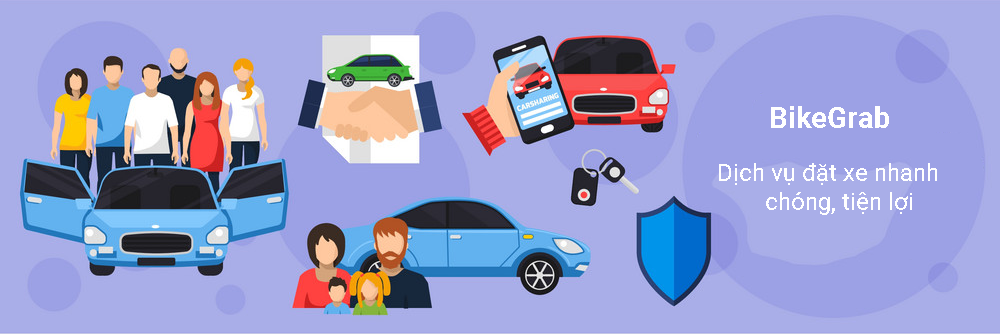
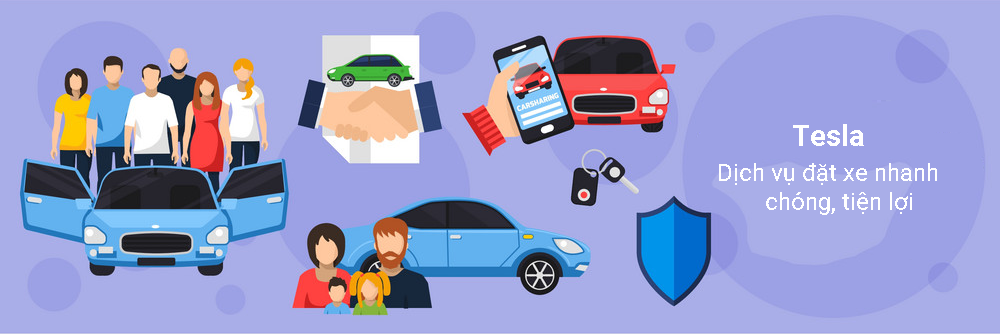
edit home page, dashboard page, fix error router

Changed region(s): [[0.744, 0.2994, 0.899, 0.4491]]

diff --git a/src/views/Receive/Request.js b/src/views/Receive/Request.js
@@ -124,10 +124,10 @@ class ReceiveRequestView extends React.Component {
         <GridItem xs={0} sm={0} md={2} />
         <GridItem xs={12} sm={12} md={8}>
           <Card>
-            <CardHeader color="primary">
+            <CardHeader color="primary" bg="#483D8B" styles="15" mar="0">
               <h2 className={classes.cardTitleWhite}>THÔNG TIN CHUYẾN ĐI</h2>
             </CardHeader>
-            <CardBody>
+            <CardBody style={{background: "#63cdd7"}}>
               <div style={{ display: 'flex', flexDirection: 'column', width: '100%', padding: 20 }}>
                 <div style={{ display: 'flex', flexDirection: 'row' }}>
                   <div style={{ display: 'flex', flexDirection: 'column' }} className={classes.textField}>
@@ -148,9 +148,9 @@ class ReceiveRequestView extends React.Component {
                     <TextField
                       error={this.state.errorCount !== 0 && this.state.phoneErrorMessage !== ''}
                       id="standard-name"
-                      label="Số điện thoại *"
+                      label="SĐT *"
                       className={classes.textField}
-                      style={{ marginLeft: 10 }}
+                      style={{ marginLeft: 10, width: '94%'}}
                       value={this.state.phone}
                       onChange={this.handleChange('phone')}
                       margin="normal"
@@ -161,7 +161,8 @@ class ReceiveRequestView extends React.Component {
                 <TextField
                   error={this.state.errorCount !== 0 && this.state.addressErrorMessage !== ''}
                   id="standard-name"
-                  label="Địa chỉ đón khách *"
+                  label="Địa chỉ *"
+                  style={{width: '98%'}}
                   className={classes.textField}
                   value={this.state.address}
                   onChange={this.handleChange('address')}
@@ -170,7 +171,8 @@ class ReceiveRequestView extends React.Component {
                 <Typography style={{ color: 'red', fontFamily: 'Roboto-Light', fontSize: 12 }}>{this.state.addressErrorMessage}</Typography>
                 <TextField
                   id="standard-name"
-                  label="Ghi chú"
+                  label="Ghi chú *"
+                  style={{width: '98%'}}
                   className={classes.textField}
                   value={this.state.note}
                   onChange={this.handleChange('note')}
@@ -178,7 +180,7 @@ class ReceiveRequestView extends React.Component {
                   multiline
                   rows="6"
                 />
-                <Button round variant="contained" color="primary" style={{ width: 100, marginLeft: 'auto' }} onClick={this.onReceiveClick}>
+                <Button round variant="contained" color="primary" style={{ width: 100, marginLeft: 'auto', background: "#483D8B" }} onClick={this.onReceiveClick}>
                   <Typography style={{ color: '#FFFFFF' }}>Nhận</Typography>
                 </Button>
               </div>
@@ -194,13 +196,14 @@ class ReceiveRequestView extends React.Component {
 const styles = {
   textField: {
     width: '100%',
+    color: "White",
   },
   cardTitleWhite: {
     color: "#FFFFFF",
     marginTop: "0px",
     minHeight: "auto",
     fontWeight: "300",
-    fontFamily: "'Roboto', 'Helvetica', 'Arial', sans-serif",
+    fontFamily: "'roboto bold', 'Helvetica', 'Arial', sans-serif",
     marginBottom: "3px",
     textDecoration: "none"
   }

diff --git a/src/layouts/Dashboard/Dashboard.jsx b/src/layouts/Dashboard/Dashboard.jsx
@@ -44,10 +44,10 @@ class Dashboard extends React.Component {
     if (navigator.platform.indexOf("Win") > -1) {
       const ps = new PerfectScrollbar(this.refs.mainPanel);
     }
-    // window.addEventListener("resize", this.resizeFunction);
-    // if (sessionStorage.getItem('access_token') === null){
-    //   this.props.history.push('/')
-    // }
+    window.addEventListener("resize", this.resizeFunction);
+    if (sessionStorage.getItem('access_token') === null){
+		this.props.history.push('/')
+    }
   }
   componentDidUpdate(e) {
     if (e.history.location.pathname !== e.location.pathname) {
@@ -63,10 +63,10 @@ class Dashboard extends React.Component {
   render() {
     const { classes, ...rest } = this.props;
     return (
-      <div className={classes.wrapper} style={{backgroundColor: '#EFEFEF'}}>
+      <div className={classes.wrapper} style={{backgroundColor: '#EFEFEF', marginTop: -8}}>
         <Sidebar
           routes={dashboardRoutes}
-          logoText={"BikeGrap"}
+          logoText={"Tesla"}
           logo={logo}
           image={image}
           handleDrawerToggle={this.handleDrawerToggle}

diff --git a/src/components/Home/HomeHeader.jsx b/src/components/Home/HomeHeader.jsx
@@ -17,10 +17,10 @@ class HomeHeader extends React.Component {
         return (
             <div className={classes.root}>
                 <Link to="/home" style={{ textDecoration: 'none', marginRight: 50 }}>
-                    <img src={logo} alt="logo" width="55" height="45" style={{ float: 'left' }} />
+                    <img src={logo} alt="logo" width="80" height="70" style={{ float: 'left' }} />
                     <div style={{ marginTop: 11, marginLeft: 5, display: 'inline', float: 'left' }}>
-                        <Typography style={{ fontFamily: 'roboto medium', fontSize: 23 }}>
-                            BikeGrab
+                        <Typography style={{ fontFamily: 'roboto medium', fontSize: 23, marginTop: 10, marginLeft: -10 }}>
+                            Tesla
                     </Typography>
                     </div>
                 </Link>

diff --git a/src/api/router/userRouter.js b/src/api/router/userRouter.js
@@ -1,6 +1,6 @@
-var token=require('../controller/TokenCtrl.js');
+var token=require('../controllers/tokenController.js');
 express = require('express');
-var userCtrl= require('../controller/UserCtrl')
+var userCtrl= require('../controllers/userController')
 
 var router = express.Router();
 
@@ -14,12 +14,12 @@ router.route('/login')
 // .post(userCtrl.register);
 
 router.route('/getUser') 
-.post(token.checkAccessToken,userCtrl.getUser);
+.post(token.checkAccessToken,userCtrl.getUsers);
 
 router.route('/getUserByToken') 
-.post(token.checkAccessToken,userCtrl.getUserByToken);
+.post(token.checkAccessToken,userCtrl.getUsersByToken);
 
 router.route('/getUserForType') 
-.post(token.checkAccessToken,userCtrl.getUserForType);
+.post(token.checkAccessToken,userCtrl.getUsersForType);
 
 module.exports = router;

diff --git a/src/components/Header/Header.jsx b/src/components/Header/Header.jsx
@@ -2,6 +2,7 @@ import React from "react";
 import classNames from "classnames";
 import PropTypes from "prop-types";
 import withStyles from "@material-ui/core/styles/withStyles";
+import { Typography } from "@material-ui/core";
 import AppBar from "@material-ui/core/AppBar";
 import Toolbar from "@material-ui/core/Toolbar";
 import IconButton from "@material-ui/core/IconButton";
@@ -30,9 +31,7 @@ function Header({ ...props }) {
       <Toolbar className={classes.container}>
         <div className={classes.flex}>
           
-          <Button color="transparent" href="#" className={classes.title}>
-            {makeBrand()}
-          </Button>
+			<Typography style={{ color: '#005f89', fontSize: 30 }}>{makeBrand()}</Typography>
         </div>
         <Hidden smDown implementation="css">
           

diff --git a/src/api/controllers/tripController.js b/src/api/controllers/tripController.js
@@ -188,3 +188,33 @@ exports.updateTripStatus = function(req,res) {
     });
  });
 }
+
+
+//Lay chuyen di theo trang thai
+exports.getTripByStatus=function(req,res){
+    var c=req.body;
+    tripRepo.getTripByStatus(c)
+    .then(rows=>{
+        if(rows.length>0)
+        {
+           res.json({
+            returnCode:1,
+            message:" lấy danh sách trip thành công!",
+            object:rows
+        })
+       }else {
+           res.json({
+            returnCode:0,
+            message:" khong co trip nao!",
+            object:rows
+        })
+       }
+   })
+    .catch(err=>{
+        res.json({
+            returnCode:0,
+            message:"lấy danh sách trip thất bại!",
+            error:err
+        });
+    })
+}

diff --git a/src/assets/jss/material-dashboard-react/components/sidebarStyle.jsx b/src/assets/jss/material-dashboard-react/components/sidebarStyle.jsx
@@ -84,8 +84,10 @@ const sidebarStyle = theme => ({
     marginRight: "15px"
   },
   img: {
-    width: "35px",
-    top: "22px",
+    width: "80px",
+	height: "70px",
+	left: "0px",
+    top: "1px",
     position: "absolute",
     verticalAlign: "middle",
     border: "0"
@@ -107,7 +109,7 @@ const sidebarStyle = theme => ({
       height: "100%",
       content: '""',
       display: "block",
-      background: "#000",
+      background: "#005f89",
       opacity: ".8"
     }
   },

diff --git a/src/assets/jss/material-dashboard-react/components/headerStyle.jsx b/src/assets/jss/material-dashboard-react/components/headerStyle.jsx
@@ -10,7 +10,6 @@ import {
 } from "../../material-dashboard-react.jsx";
 const headerStyle = theme => ({
   appBar: {
-    backgroundColor: "transparent",
     boxShadow: "none",
     borderBottom: "0",
     marginBottom: "0",
@@ -24,7 +23,8 @@ const headerStyle = theme => ({
     padding: "10px 0",
     transition: "all 150ms ease 0s",
     minHeight: "50px",
-    display: "block"
+    display: "block",
+	background: "#e6eceb",
   },
   container: {
     ...container,

diff --git a/src/components/Card/CardHeader.jsx b/src/components/Card/CardHeader.jsx
@@ -20,6 +20,8 @@ function CardHeader({ ...props }) {
     stats,
     icon,
     styles,
+    bg,
+    mar,
     ...rest
   } = props;
   
@@ -32,7 +34,7 @@ function CardHeader({ ...props }) {
     [className]: className !== undefined
   });
   return (
-    <div className={cardHeaderClasses} {...rest} style={{padding: styles}}>
+    <div className={cardHeaderClasses} {...rest} style={{margin:mar,padding: styles, background: bg}}>
       {children}
     </div>
   );

diff --git a/src/components/Home/Footer.jsx b/src/components/Home/Footer.jsx
@@ -10,7 +10,7 @@ function Footer({ ...props }) {
     <div className={classes.container}>
             <Grid container space={12}>
             <Grid item xs={12} sm={12} md={3} >
-            <h2><a className={classes.logo} href="/"> BikeGrab </a></h2>
+            <h2><a className={classes.logo} href="/"> Tesle </a></h2>
             </Grid>
             <Grid item xs={12} sm={12} md={2}>
             <h5 className={classes.h5}>Bắt đầu</h5>

diff --git a/src/assets/jss/material-dashboard-react/layouts/dashboardStyle.jsx b/src/assets/jss/material-dashboard-react/layouts/dashboardStyle.jsx
@@ -25,7 +25,8 @@ const appStyle = theme => ({
   content: {
     marginTop: "70px",
     padding: "30px 15px",
-    minHeight: "calc(100vh - 123px)"
+    minHeight: "calc(100vh - 123px)",
+	background: "#e6eceb",
   },
   container,
   map: {
